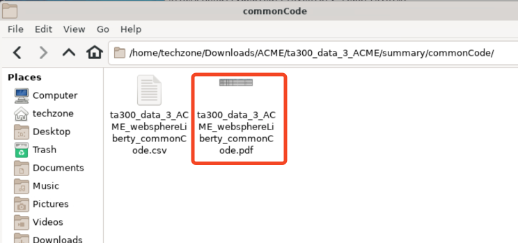
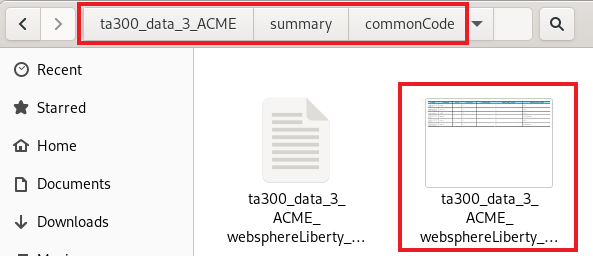
Updated

diff --git a/README.md b/README.md
@@ -579,11 +579,11 @@ The export generates a zip file of the workspace summary and /or application det
  
     <kbd>![image49](./images/media/image49.png)</kbd>
 
-    e.  Navigate to **`/home/techzone/Downloads/ACME/ta300_data_3_ACME/summary/commonCode`** directory, and open the pdf file to view the common code summary
+    e.  Navigate to **`ACME/ta300_data_3_ACME/summary/commonCode`** directory, and open the pdf file to view the common code summary
 
-    ![](./images/media/image50.png)
+    <kbd>![image50](./images/media/image50.png)</kbd>
  
-    ![](./images/media/image51.png)
+    <kbd>![image51](./images/media/image51.png)</kbd>
 
     You may continue to explore the csv and pdf files in the other sections of the exported data.
 
